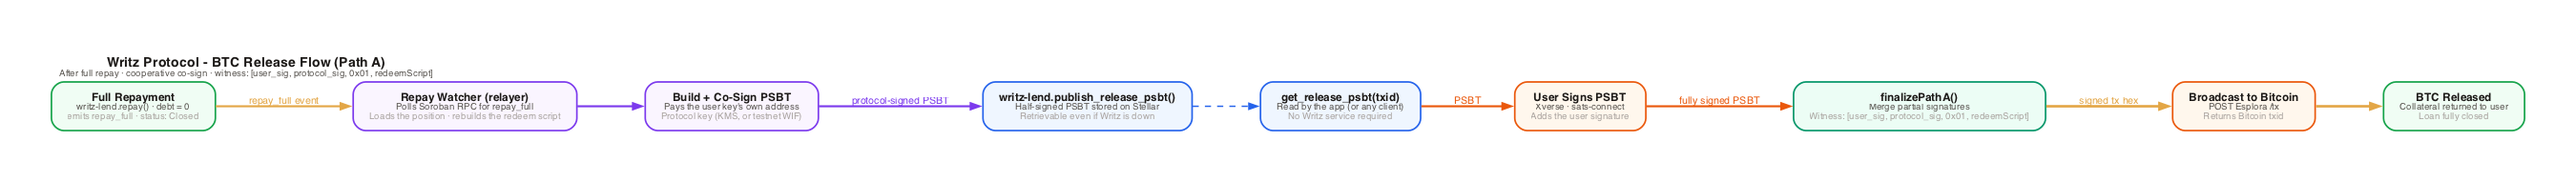
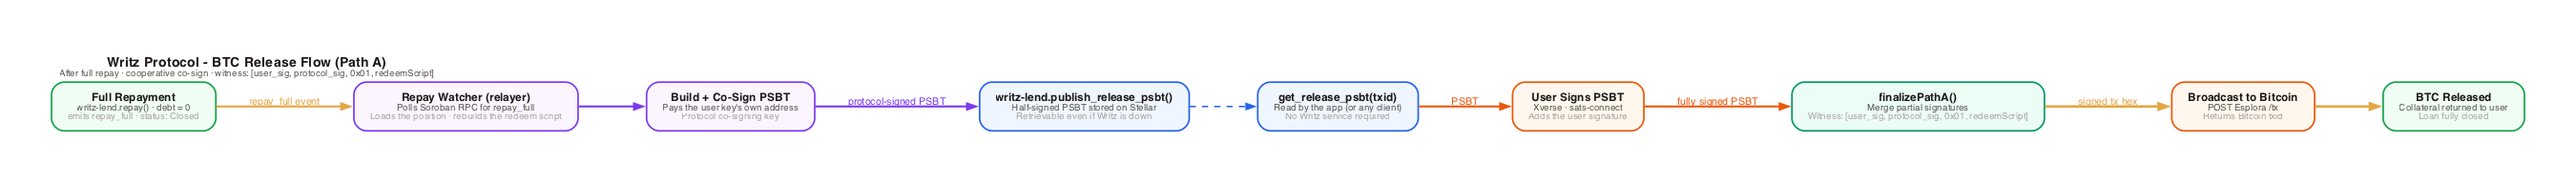
docs: align signer, oracle and script wording with the current design (#357)

diff --git a/frontend/landing/src/app/brand/page.tsx b/frontend/landing/src/app/brand/page.tsx
@@ -106,7 +106,7 @@ const TYPE = [
   { spec: "H2 36 / 600 / -0.022em", size: 36, weight: 600, tracking: "-0.022em", text: "No bridge, no custodian" },
   { spec: "Body 17 / 400", size: 17, weight: 400, tracking: "0", text: "The collateral stays on Bitcoin, held by a Bitcoin Script." },
   { spec: "Label 13 / 500 / 0.06em", size: 13, weight: 500, tracking: "0.06em", text: "COLLATERAL", upper: true },
-  { spec: "Data 16 / mono / tabular", size: 16, weight: 400, tracking: "0", text: "CB2BD6QC…NCKKNIVA 0.04120000 BTC", mono: true },
+  { spec: "Data 16 / mono / tabular", size: 16, weight: 400, tracking: "0", text: "CBX23YKC…VCW7W4EO 0.04120000 BTC", mono: true },
 ];
 
 const ONE_LINE =

diff --git a/scripts/diagrams/04-btc-release-flow.py b/scripts/diagrams/04-btc-release-flow.py
@@ -25,7 +25,7 @@ g.node("prereq", hl("Full Repayment", "writz-lend.repay() · debt = 0", "emits r
        fillcolor=F_SUCCESS, color=B_SUCCESS)
 g.node("watcher", hl("Repay Watcher (relayer)", "Polls Soroban RPC for repay_full", "Loads the position · rebuilds the redeem script"),
        fillcolor=F_RELAYER, color=B_RELAYER)
-g.node("protocol_sign", hl("Build + Co-Sign PSBT", "Pays the user key's own address", "Protocol key (KMS, or testnet WIF)"),
+g.node("protocol_sign", hl("Build + Co-Sign PSBT", "Pays the user key's own address", "Protocol co-signing key"),
        fillcolor=F_RELAYER, color=B_RELAYER)
 g.node("publish", hl("writz-lend.publish_release_psbt()", "Half-signed PSBT stored on Stellar", "Retrievable even if Writz is down"),
        fillcolor=F_STELLAR, color=B_STELLAR)

diff --git a/docs/security/security-model.md b/docs/security/security-model.md
@@ -30,7 +30,7 @@ Every security system has trust assumptions. Writz's are:
 | Soroban contracts | Smart contract code runs as written | Critical - mitigated by audits and open-source code |
 | ZK circuits (privacy edition only) | Groth16 proofs are sound (no witness forgery) | Critical for that edition - mitigated by its own audit; not a v1 assumption |
 | Trusted setup ceremony (privacy edition only) | ≥1 participant destroyed their randomness honestly | Critical for that edition - mitigated by a multi-party ceremony; not on the v1 mainnet path |
-| Protocol co-signing key (Phase 1) | Writz's HSM is not compromised | High - mitigated by migration to MPC in Phase 2 |
+| Protocol co-signing key | The protocol co-signing key is not compromised | High - it cannot move Bitcoin without the user's key; a 2-of-3 protocol side in the script is planned, with a published signing policy |
 | Oracle price feed | BTC/USD price is not manipulated beyond staleness threshold | High - mitigated by staleness checks today (single Reflector source); a second source for a median is planned |
 | User's private keys | User's Bitcoin and Stellar keys are not compromised | Critical - user responsibility |
 | All of the above | No large-scale quantum computer capable of running Shor's algorithm exists | Catastrophic if it does, but this breaks Bitcoin's ECDSA, Stellar's Ed25519, and Groth16's BN254 pairing curve simultaneously. Not a Writz-specific risk, and not one Writz can mitigate unilaterally |
@@ -145,13 +145,11 @@ For SegWit deposits, `verify_transaction` computes the txid as `SHA256d` of the 
 
 The P2WSH cooperative-release path requires the protocol's co-signature; the fallback path uses `OP_CHECKLOCKTIMEVERIFY` so a user can always recover BTC unilaterally once the timelock expires. CLTV has a sharp edge: if the spending input's `nSequence` is `0xFFFFFFFF` (Bitcoin's "final" value, and many wallets' default), the Script interpreter fails the CLTV check immediately regardless of whether the timelock has actually expired, with no clear error message. Writz's own tooling (`buildEmergencyTransaction`/`finalizePathB` in `bitcoin-script`) hardcodes `nSequence = 0xFFFFFFFE` and gives `SpendParams` no caller-settable sequence field for this path, so it cannot regress. Users constructing this recovery transaction by hand with a third-party wallet must set this themselves - see [Manual Emergency Recovery](/how-it-works/manual-emergency-recovery).
 
-### Protocol co-signing key custody
+### Protocol co-signing key
 
-The two call sites that need to co-sign a Bitcoin release (`/api/cosign` and the repay-watcher relayer) resolve their signer through a single shared function, `resolveProtocolSigner`, rather than each hardcoding a custody assumption. It prefers an AWS KMS asymmetric key (`ECC_SECG_P256K1` / `ECDSA_SHA_256` - the same curve Bitcoin uses): the private key material never leaves KMS, and every signature is an authenticated `kms:Sign` call, audit-logged via CloudTrail.
+The relayer's repay watcher co-signs a Bitcoin release in response to a `repay_full` event recorded on Stellar, and publishes the half-signed transaction on `writz-lend` so it can be read even if Writz is down.
 
-When KMS isn't configured, the same function falls back to a WIF-encoded key read from an environment variable (`PROTOCOL_SIGNING_KEY`) - the custody model Writz used before KMS. This exists to unblock testnet/signet operation when KMS setup is delayed (for example, while an AWS account identity-verification hold is being resolved), not as a permanent alternative: it reintroduces the exact risk the KMS migration closed (a compromised host or leaked environment variable exposes the key outright, with no HSM boundary). To keep that fallback from silently becoming the mainnet posture, `resolveProtocolSigner` refuses it unconditionally on `bitcoin.networks.bitcoin` - a deployment misconfigured for mainnet fails loudly at startup instead of running with a weaker custody model than the rest of this document assumes. KMS takes priority whenever both are configured, so setting `KMS_KEY_ID` is the only step needed to move a given deployment off the fallback.
-
-**Operational monitoring gap:** the mainnet guard is a hard stop, but there is currently no alerting for the WIF fallback being active on testnet/signet - `resolveProtocolSigner` silently uses it whenever `KMS_KEY_ID` is unset, with no log line or metric flagging that a deployment is running with the weaker custody model. Before mainnet, add a startup-time log/alert (not just the mainnet-network refusal) so the team always knows which custody mode a given deployment is running under, rather than discovering it only if the mainnet guard fires.
+The protocol key cannot move Bitcoin on its own: the cooperative path also requires the user's signature, and the time-lock path needs only the user's key. The planned design replaces the single protocol key with a 2-of-3 protocol side written into the P2WSH script, three keys held separately, so Bitcoin enforces the threshold natively. The signing policy, what the protocol signers can and cannot sign, will be published.
 
 ### Trusted setup ceremony (privacy edition)
 
@@ -210,7 +208,7 @@ The keeper does need position preimages to monitor health ratios in the first pl
 - If borrowers do not repay before Writz shuts down, and liquidations cannot occur, USDC lenders may face losses
 - This risk is mitigated by conservative TVL caps, insurance fund accumulation, and progressive decentralization
 
-### "The protocol co-signing key is compromised (Phase 1)"
+### "The protocol co-signing key is compromised"
 
 An attacker with the protocol co-signing key cannot:
 - Move BTC from any P2WSH address (user signature still required for Condition A)
@@ -220,7 +218,7 @@ An attacker could:
 - Refuse to co-sign repayment releases (effectively locking users out of Condition A) - users fall back to Condition B time-lock
 - Generate invalid co-signatures for transactions where loans haven't been repaid - invalid because the Stellar contract checks repayment before the event is emitted
 
-**Phase 2 mitigation:** The co-signing key is replaced with a threshold MPC scheme (Protocol 27). Compromising the co-signing key requires compromising multiple independent parties simultaneously.
+**Planned mitigation:** the single co-signing key is replaced by a 2-of-3 protocol side written into the P2WSH script, three keys held separately. Bitcoin enforces the threshold natively, so co-signing a release requires compromising two independent keys at once. The signing policy will be published.
 
 ### "The oracle reports a wrong price"
 
@@ -228,7 +226,7 @@ If the BTC/USD price is manipulated downward:
 - Healthy positions could appear undercollateralized and be liquidated (their debt is cleared in USDC; no BTC moves in a `writz-lend` liquidation)
 
 **Mitigations:**
-- Median of two independent oracles (Pyth + Reflector - corrected 2026-09-16, then re-verified on-chain; RedStone dropped, DIA parked, see `docs/research/oracle-design.md`) - manipulating the median requires moving both
+- Planned: a median of two independent oracles (Reflector plus Pyth, with a deviation guard - corrected 2026-09-16, then re-verified on-chain; RedStone dropped, DIA parked, see `docs/research/oracle-design.md`) - manipulating the median requires moving both
 
 **Interim status (2026-09-17):** only Reflector is wired into `writz-lend` today - see `contracts/contracts/writz-lend/src/oracle.rs`. There is no median yet; a single misbehaving or unavailable Reflector feed currently blocks (via `OraclePriceStale`/`OraclePriceUnavailable`) rather than silently mispricing, but it cannot yet be cross-checked against a second source the way the target design requires. Do not treat this as the finished manipulation-resistance story until Pyth is also wired.
 - Staleness check: price data older than 60 minutes is rejected; liquidations are paused (aligned with `docs/research/oracle-design.md` - Pyth is a pull oracle, not a continuous push feed, so the threshold accounts for time between pulls, not just publish latency)

diff --git a/docs/security/stride-threat-model.md b/docs/security/stride-threat-model.md
@@ -15,8 +15,8 @@
 | `bitcoin-spv` Soroban contract | Stellar on-chain | Trustless - Soroban VM |
 | `writz-lend` Soroban contract | Stellar on-chain | Trustless - Soroban VM |
 | Writz SPV relayer | Off-chain service | Untrusted - convenience only |
-| Pyth / Reflector oracle | Off-chain + on-chain | Partially trusted |
-| Protocol co-signing key (HSM) | Off-chain | Trusted - Writz operator |
+| Reflector oracle (a second source planned) | Off-chain + on-chain | Partially trusted |
+| Protocol co-signing key | Off-chain | Trusted - Writz operator |
 | Liquidation keeper | Off-chain | Trusted - Phase 1 |
 | User Bitcoin wallet (Xverse) | Client-side | Untrusted |
 | User Stellar wallet (Freighter) | Client-side | Untrusted |
@@ -52,7 +52,7 @@
         ▼         ▼
 [User Stellar Wallet]     [Protocol Treasury / USDC Pool]
 
-[Protocol Co-signing Key (HSM)] ─── co-signs P2WSH release on Bitcoin
+[Protocol Co-signing Key] ─────── co-signs P2WSH release on Bitcoin
 [Liquidation Keeper] ─────────── calls liquidate() on Writz Lend
 ```
 
@@ -75,19 +75,19 @@
 #### S2: Attacker impersonates the Writz protocol co-signing key
 **Threat:** An attacker obtains the protocol private key and co-signs a fraudulent P2WSH release, draining all BTC collateral.
 
-**Mitigation (Phase 1):** Protocol key stored in cloud HSM (AWS CloudHSM or equivalent). Key never leaves HSM in plaintext. Signing requires authenticated access.
+**Mitigation (today):** The protocol key alone cannot move Bitcoin: the cooperative path also requires the user's signature, so a stolen protocol key can at most refuse or delay releases, and the user's time-lock exit (Path B) never needs it.
 
-**Mitigation (Phase 2):** Migrate to MPC (multi-party computation): 2-of-3 or 3-of-5 threshold ECDSA. No single party holds the complete key.
+**Mitigation (planned):** A 2-of-3 protocol side written into the P2WSH script, three keys held separately, so Bitcoin enforces the threshold natively and no single key can co-sign a release. Threshold ECDSA (MPC) is not planned. The signing policy, what the protocol signers can and cannot sign, will be published.
 
-**Residual risk:** MEDIUM in Phase 1 (HSM compromise is the primary attack vector on the protocol's Bitcoin-side custody). Mitigated to LOW in Phase 2 with MPC.
+**Residual risk:** MEDIUM with a single protocol key; LOW once the 2-of-3 protocol side ships.
 
 #### S3: Oracle price spoofing
 **Threat:** An attacker manipulates the BTC/USD price fed to Writz Lend to artificially trigger liquidations or allow over-borrowing.
 
 **Mitigation:**
-- Pyth uses off-chain institutional price aggregation (30–60 publishers per feed). Cannot be manipulated by on-chain flash loans.
-- Phase 2 adds a second oracle (Reflector's external-prices instance) and takes the median - requires compromising both simultaneously. (Corrected 2026-09-16, on-chain verified: RedStone dropped as primary - Stellar isn't in its supported-chain list. DIA parked - its documented testnet contract address returns "contract not found" when queried directly. See `docs/research/oracle-design.md`.)
-- TWAP (time-weighted average price) delays as additional manipulation resistance considered for Phase 2.
+- `writz-lend` reads Reflector's external-prices SEP-40 feed (CEX and DEX aggregation), which an on-chain flash loan cannot move. A price older than one hour is rejected, so a stale or unavailable feed blocks price-dependent calls rather than mispricing them.
+- Planned: a second source (Pyth, pull model) with a deviation guard, so a single bad feed is caught by the other. (RedStone dropped: Stellar is not in its supported-chain list. DIA parked: its documented testnet contract address returns "contract not found". See `docs/research/oracle-design.md`.)
+- TWAP (time-weighted average price) delays are considered as additional manipulation resistance.
 
 **Residual risk:** LOW for retail manipulation. Theoretical risk from compromised institutional publishers - mitigated by publisher diversity.
 
@@ -187,8 +187,8 @@
 | Threat | Severity | Mitigation state | Residual |
 |---|---|---|---|
 | S1: Fake SPV proof | Critical | Bitcoin PoW | NONE |
-| S2: Protocol key compromise | Critical | HSM (P1) → MPC (P2) | MEDIUM (P1), LOW (P2) |
-| S3: Oracle price manipulation | High | Multi-publisher, median (P2) | LOW |
+| S2: Protocol key compromise | Critical | User key required on every path; 2-of-3 protocol side planned | MEDIUM (single key), LOW (2-of-3) |
+| S3: Oracle price manipulation | High | Reflector with staleness check; second source with deviation guard planned | LOW |
 | T1: P2WSH script tampering | Critical | SHA256 commitment | NONE |
 | T2: Storage tampering | Critical | Soroban VM isolation | NONE |
 | T3: Proof data in transit | Medium | User self-service | LOW |
@@ -196,7 +196,7 @@
 | R2: Keeper repudiation | Low | On-chain immutability | NONE |
 | I1: Public position amounts | High | None in v1 (by design); separate privacy edition in progress | HIGH (accepted for v1) |
 | I2: Relayer data collection | Medium | Self-service available | MEDIUM (P1), LOW (P2) |
-| D1: Relayer DoS | Low | Stateless SPV redundancy | LOW |
+| D1: Relayer DoS | Low | Redundant relayers and a tip freshness rule planned (the header light client needs headers submitted continuously); the user's time-lock exit is unaffected | LOW |
 | D2: Compute spam | Low | Soroban fee model | LOW |
 | D3: Key unavailability | High | CLTV timelock backstop | LOW (users), HIGH (ops) |
 | E1: False liquidation | High | On-chain check + keeper ACL | LOW |
@@ -212,9 +212,9 @@ The external audit before mainnet should focus on, in priority order:
 1. **SPV verification correctness** - is the SHA256d implementation correct? Does header chain validation correctly prevent header substitution attacks?
 2. **Interest rate model overflow** - are there edge cases in the kinked rate formula that could cause incorrect interest calculation at extreme values?
 3. **Cross-contract call trust** - can a malicious contract be registered as the SPV contract to bypass deposit verification?
-4. **Protocol key security** - HSM configuration, signing policy, and key recovery procedures
+4. **Protocol key security** - the 2-of-3 protocol signers, their published signing policy, and key recovery procedures
 5. **ZK circuit soundness** - not part of v1; the privacy edition's circuits get their own audit before that edition launches
 
 ---
 
-*Last updated: June 2026 - v0.1 draft. Full revision planned for a future Tranche #1 submission, which is not currently scheduled.*
+*Last updated: June 2026 - v0.1 draft. Full revision planned before the external audit.*

diff --git a/docs/research/bitcoin-locking-script.md b/docs/research/bitcoin-locking-script.md
@@ -144,17 +144,14 @@ The timelock recovery script is embedded in a Tapscript leaf, committed to in th
 
 ### The problem
 
-Writz holds a co-signing private key for the `protocol_pubkey` in every locking script. If this key is compromised, an attacker can drain all locked BTC by co-signing arbitrary release transactions.
+Writz holds a co-signing private key for the `protocol_pubkey` in every locking script. Every spending path also requires the user's key, so a compromised protocol key cannot move locked BTC on its own, but it is a single point of failure for cooperative releases, and any future path in which the protocol side completes a transaction the user pre-signed (such as liquidation) raises its value to an attacker.
 
 ### Solutions (in order of security)
 
-**Phase 1.5 (implemented): AWS KMS**
-The protocol private key is generated and held inside an AWS KMS asymmetric key (`ECC_SECG_P256K1` curve, `ECDSA_SHA_256` signing algorithm - natively matching Bitcoin's curve). The raw key material never leaves KMS; signing is a `kms:Sign` API call authenticated via IAM, with CloudTrail audit logging on every call. See `bitcoin-script/src/keys.ts`'s `KmsSigner` and `frontend/app/src/app/api/cosign/route.ts`. The `$50K` mainnet TVL cap bounds exposure on top of this custody model. See `docs/security/security-model.md` for the full trust-model discussion.
-
 **Planned: 2-of-3 protocol side in the script**
-Instead of splitting one key with MPC, the script itself requires the user's key and any 2 of 3 protocol keys, `wsh(and_v(v:pk(U),or_i(multi(2,K1,K2,K3),after(H))))`, held separately. Bitcoin enforces the threshold natively, each protocol key signs plain ECDSA, and the user's timelock exit is unchanged. Threshold ECDSA (MPC, for example GG20/21 or CGGMP21) is not planned.
+Instead of splitting one key with MPC, the script itself requires the user's key and any 2 of 3 protocol keys, `wsh(and_v(v:pk(U),or_i(multi(2,K1,K2,K3),after(H))))`, held separately. Bitcoin enforces the threshold natively, each protocol key signs plain ECDSA, and the user's timelock exit is unchanged. Threshold ECDSA (MPC, for example GG20/21 or CGGMP21) is not planned. The signing policy, what the protocol signers can and cannot sign, will be published.
 
-**Phase 2+: Stellar Auth Delegation (Protocol 27)**
+**Considered: Stellar Auth Delegation (Protocol 27)**
 Protocol 27 (July 8, 2026) enables distributing the co-signing authority on the Stellar side across multiple delegated accounts. While this doesn't directly affect the Bitcoin signing key, it enables a multi-party signing ceremony where multiple Stellar accounts must authorize a BTC co-signature before it's produced.
 
 **Only if Taproot is reopened: FROST (Flexible Round-Optimized Schnorr Threshold)**
@@ -258,7 +255,7 @@ EMERGENCY RECOVERY (if Writz offline):
 | Script type | P2WSH with absolute CLTV for mainnet v1; a 2-of-3 miniscript form planned; P2TR withdrawn | Signer support for P2WSH miniscript today; 2-of-3 does not fit MuSig2; Soroban can check P2WSH with one SHA-256 comparison |
 | Timelock | CLTV absolute block height | Simpler than relative timelocks, predictable |
 | Timelock duration | Loan term + 7 days safety buffer | Protects users without locking capital indefinitely |
-| Protocol key storage | AWS KMS (Phase 1.5, implemented) → 2-of-3 protocol keys in the script (planned) | Progressive decentralization of signing authority, enforced by Bitcoin Script rather than MPC |
+| Protocol signing | 2-of-3 protocol keys in the script (planned), with a published signing policy | Threshold enforced natively by Bitcoin Script rather than MPC; no single key can co-sign a release |
 | Confirmation requirement | 6 (fast lane considered, not adopted) | 6 makes reorg risk negligible at launch caps |
 | SPV type | On-chain header light client (original recommendation, stateless, superseded) | A stateless design lets a caller present a privately mined header chain |
 | Future direction | Zero-knowledge header-chain proof, under research | A second check that can only refuse a tip, never credit value |

diff --git a/docs/architecture/technical-overview.md b/docs/architecture/technical-overview.md
@@ -110,7 +110,7 @@ OP_ENDIF
 - After a predefined locktime (e.g., loan maturity + 30 days), the user can spend without the protocol's signature
 - Protects users if the protocol becomes unavailable
 
-**Taproot consideration:** Taproot (P2TR) would make the normal spending path look like a regular payment, adding privacy on the Bitcoin side. This is a Phase 2+ consideration - P2WSH is simpler to implement first.
+**Script type:** Writz stays on P2WSH with an absolute block-height time-lock for mainnet v1. An earlier plan to move to Taproot (P2TR) is withdrawn: the planned 2-of-3 protocol side does not fit a MuSig2 key path, Taproot signing is not broadly supported by the launch wallets, and Soroban has no host functions for a Taproot output check. See "Script Roadmap: P2WSH, not Taproot" in [The Bitcoin Side](/how-it-works/bitcoin-side).
 
 ---
 
@@ -267,16 +267,16 @@ let result = spv.verify_payment(
 
 | Risk | Mitigation |
 |---|---|
-| Bitcoin reorg (chain reorganization) | Require 6 confirmations - a 6-block reorg is extremely rare (has not happened in Bitcoin's history) |
+| Bitcoin reorg (chain reorganization) | Require 6 confirmations. Reorganizations that deep are very rare: the deepest on mainnet are the 2010 value-overflow fix and the 2013 BIP-50 fork |
 | P2WSH script bug | Formal verification of locking script; multiple independent reviews |
-| Protocol key compromise | Use MPC (multi-party computation) or HSM for protocol co-signing key |
+| Protocol key compromise | Planned: a 2-of-3 protocol side in the P2WSH script, three keys held separately, so no single key can co-sign a release; the signing policy will be published. The user's time-lock exit never depends on these keys |
 
 ### Soroban-side risks
 
 | Risk | Mitigation |
 |---|---|
 | SPV contract bug | Small header light client with no upgrade path; independent audit planned before mainnet; exposure caps bound what a verification failure could cost lenders. See [SPV vs Wrapped Bitcoin](/security/spv-vs-wrapped) |
-| Oracle/price feed manipulation | Use median of multiple price oracles (Pyth primary, Reflector secondary) - see `docs/research/oracle-design.md` |
+| Oracle/price feed manipulation | Reflector SEP-40 price feed today, rejected when older than one hour; a second source (Pyth, pull model) with a deviation guard is planned - see `docs/research/oracle-design.md` |
 | Interest rate model edge cases | Stress-test model against historical volatility; cap max borrow rate |
 
 ### Economic risks
@@ -294,12 +294,12 @@ let result = spv.verify_payment(
 | Component | Technology |
 |---|---|
 | Stellar smart contracts | Soroban (Rust) |
-| Bitcoin SPV library | summa-tx/bitcoin-spv (Rust) - adapted |
-| Bitcoin scripting | P2WSH (Phase 1) → Taproot (Phase 3) |
+| Bitcoin SPV library | Writz's own header light client (`bitcoin-spv`, Rust, no external SPV library) |
+| Bitcoin scripting | P2WSH with an absolute CLTV time-lock; a 2-of-3 miniscript form planned; Taproot withdrawn |
 | Frontend | React/Next.js |
 | Bitcoin wallet | Xverse (via PSBT standard) |
 | Stellar wallet | Stellar Wallets Kit (Freighter, Lobstr, others) |
-| Price oracles | Pyth (primary) + Reflector (secondary), SEP-40 median - see `docs/research/oracle-design.md` |
+| Price oracles | Reflector (SEP-40) today; Pyth planned as a second source with a deviation guard - see `docs/research/oracle-design.md` |
 | Header service | Custom Node.js service connecting to Bitcoin full node |
 
 ---

diff --git a/README.md b/README.md
@@ -3,7 +3,7 @@
 > **Bitcoin was built to be yours. Your loans should be too.**
 
 [![CI](https://github.com/WritzProtocol/writz/actions/workflows/ci.yml/badge.svg?branch=main)](https://github.com/WritzProtocol/writz/actions/workflows/ci.yml?query=branch%3Amain)
-[![Tests](https://img.shields.io/badge/tests-406%20passing-brightgreen)](https://github.com/WritzProtocol/writz/actions)
+[![Tests](https://img.shields.io/badge/tests-623%20passing-brightgreen)](https://github.com/WritzProtocol/writz/actions)
 [![Network](https://img.shields.io/badge/network-Stellar%20Testnet-blue)](https://stellar.expert/explorer/testnet)
 [![License: Apache 2.0](https://img.shields.io/badge/License-Apache%202.0-blue.svg)](LICENSE)
 
@@ -358,9 +358,9 @@ python3 scripts/diagrams/render-all.py
 |---|---|
 | Bitcoin reorg | Require 6 confirmations before deposit is recognized |
 | P2WSH script bug | Formal review; emergency timelock protects users regardless |
-| Protocol key compromise | MPC / HSM co-signing key; key rotation roadmap |
+| Protocol key compromise | The protocol key cannot move BTC without the user's key; a 2-of-3 protocol side in the P2WSH script is planned, with a published signing policy |
 | SPV contract exploit | Header light client anchored to a public checkpoint, with proof-of-work, exact difficulty and chainwork checks; no upgrade path; independent audit planned before mainnet. See [SPV vs Wrapped Bitcoin](docs/security/spv-vs-wrapped.md) |
-| Oracle manipulation | Median of multiple price feeds (Pyth + DIA) |
+| Oracle manipulation | Reflector SEP-40 feed with a one-hour staleness check; a second source (Pyth) with a deviation guard is planned |
 | Mass liquidation (BTC crash) | Conservative 150% collateral ratio; open liquidation keeps keepers competitive |
 
 ### Audit Roadmap

diff --git a/docs/how-it-works/bitcoin-side.md b/docs/how-it-works/bitcoin-side.md
@@ -138,11 +138,9 @@ This ensures that user funds are never permanently inaccessible, even in a worst
 
 ## Protocol Co-signing Key Architecture
 
-**Phase 1 (current):** The protocol co-signing key is held in an HSM (Hardware Security Module) operated by the Writz team. It is used exclusively to sign BTC release transactions for fully repaid loans.
+The protocol co-signing key is used only to co-sign release transactions for fully repaid loans. It can never move Bitcoin alone: every spending path of the script also requires the user's key, and the user's time-lock exit does not need it at all.
 
-**Phase 2 (after Protocol 27 ships, Q3 2026):** The co-signing key architecture is upgraded using Stellar's `delegate_account_auth` (Protocol 27 / Zipper). This enables threshold co-signing - multiple independent parties must agree before a release is signed - removing the single-point-of-failure of an HSM.
-
-**Phase 3 (2027):** Full MPC (Multi-Party Computation) for the protocol co-signing key, eliminating any single HSM as a trust assumption.
+**Planned:** the protocol side becomes 2-of-3 keys, held separately and written into the P2WSH script itself (see the script form below), so Bitcoin enforces the threshold natively and no single key can co-sign a release. This replaces earlier plans for threshold MPC signing. The signing policy, what the protocol signers can and cannot sign, will be published.
 
 ---
 

diff --git a/docs/introduction/why-stellar-why-now.md b/docs/introduction/why-stellar-why-now.md
@@ -39,7 +39,7 @@ Writz's Soroban contracts are written in Rust - the same language as the best Bi
 
 ### Protocol 27 - Delegation Infrastructure
 
-Protocol 27 (Zipper), scheduled for July 2026, introduces `delegate_account_auth` - a mechanism that changes how the protocol co-signing key is structured. Writz's Phase 1 architecture is designed to upgrade cleanly after Protocol 27 ships, moving from a single HSM co-signing key toward a more decentralized delegation model.
+Protocol 27 (Zipper) introduced `delegate_account_auth`, which lets authority on the Stellar side be distributed across delegated accounts. On the Bitcoin side, Writz plans a 2-of-3 protocol side written into the P2WSH script itself, so no single key can co-sign a release; the signing policy will be published.
 
 ---
 
